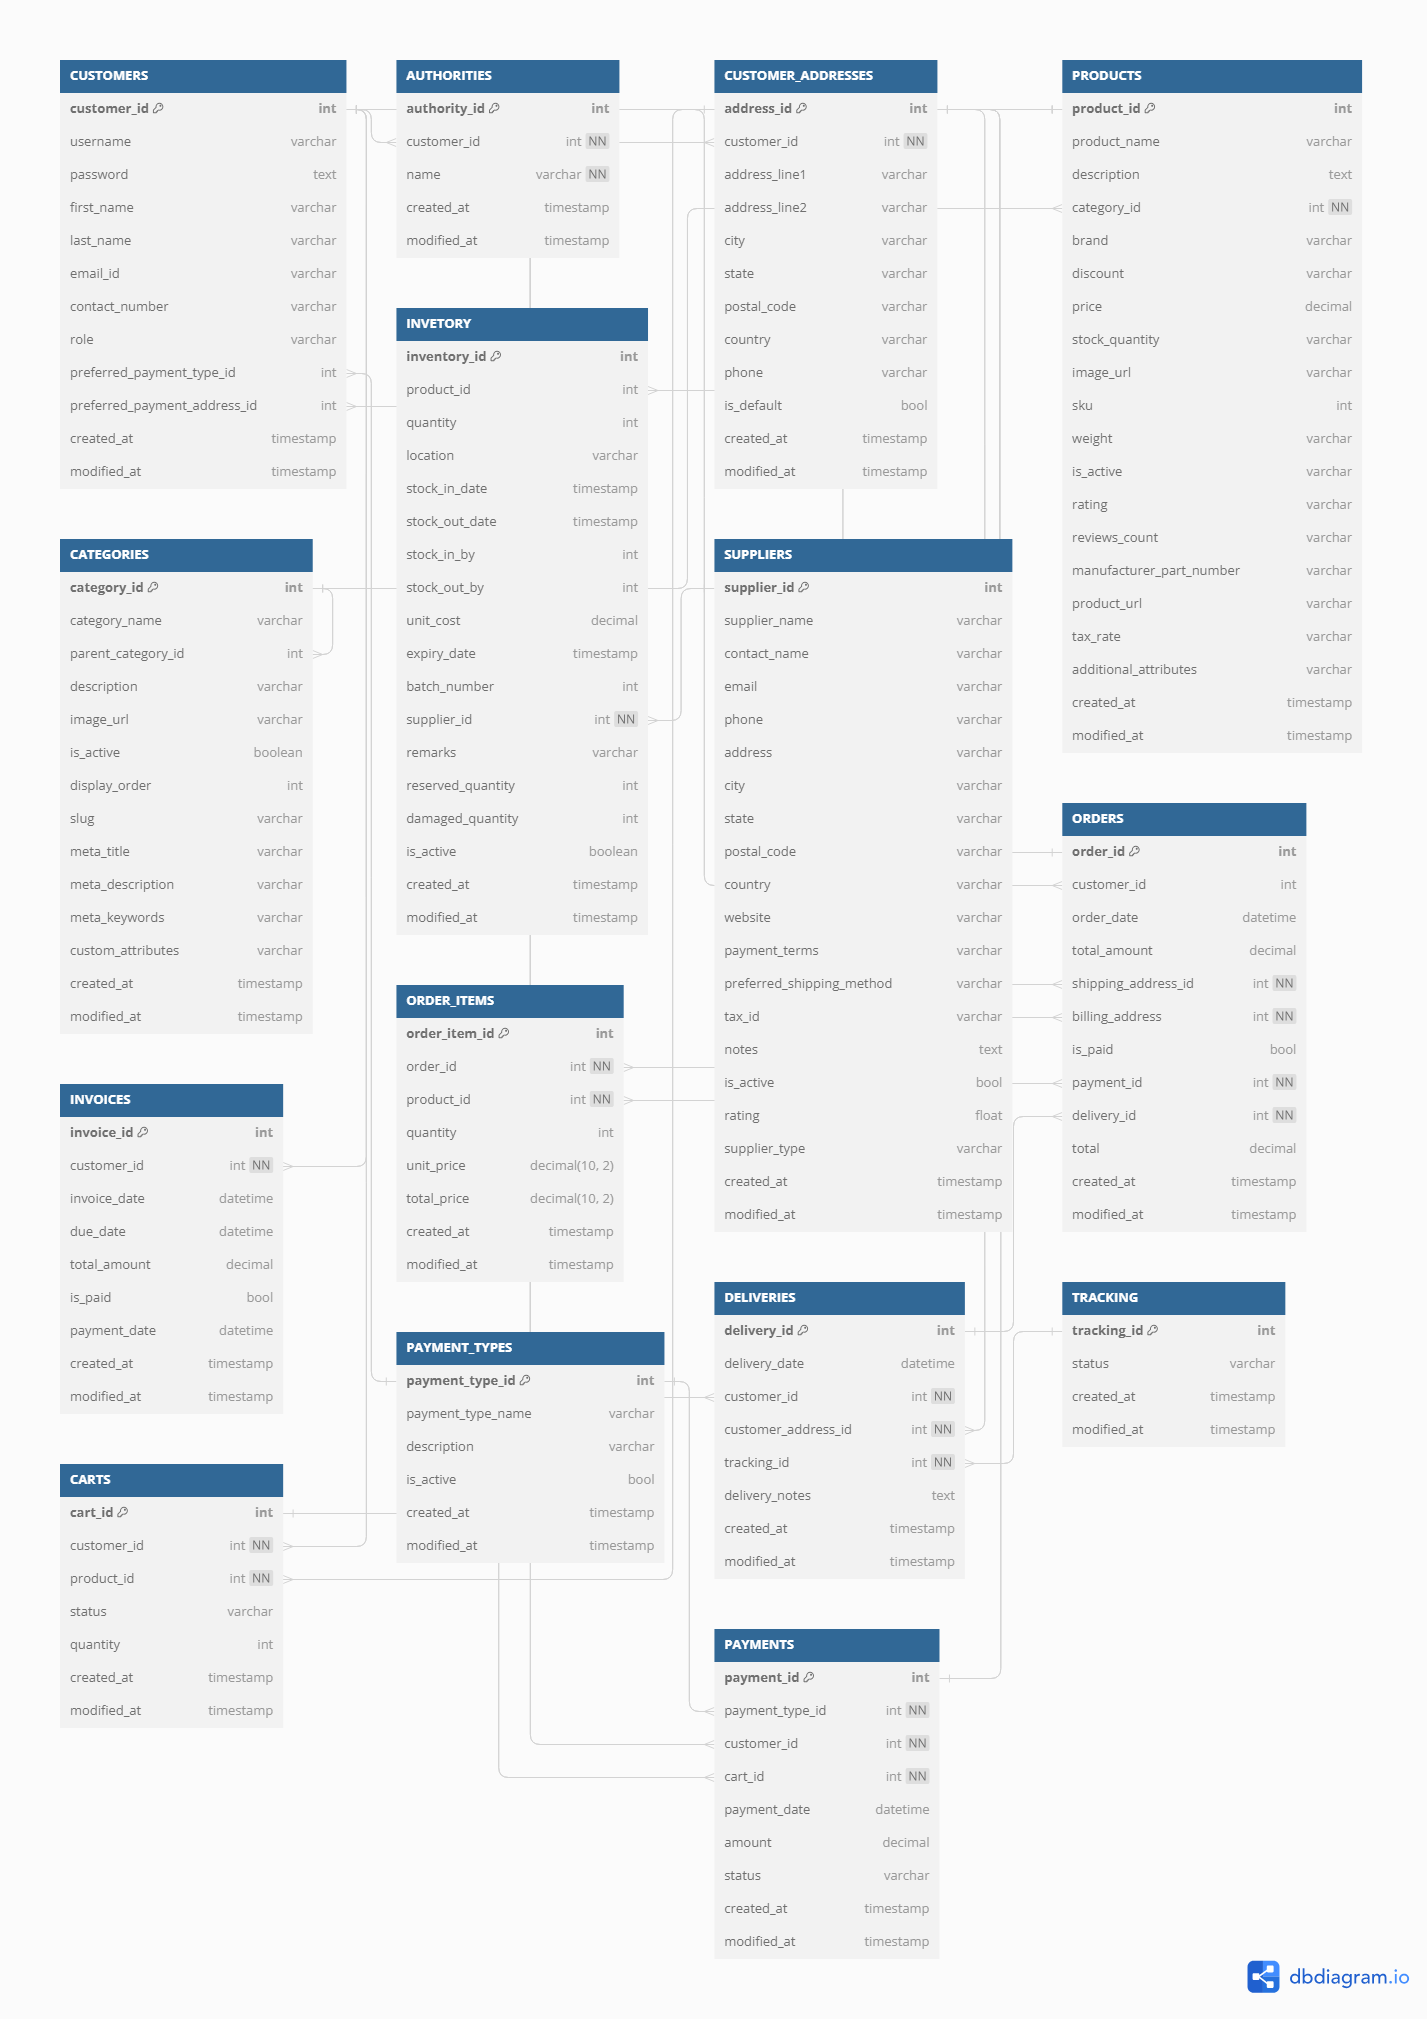
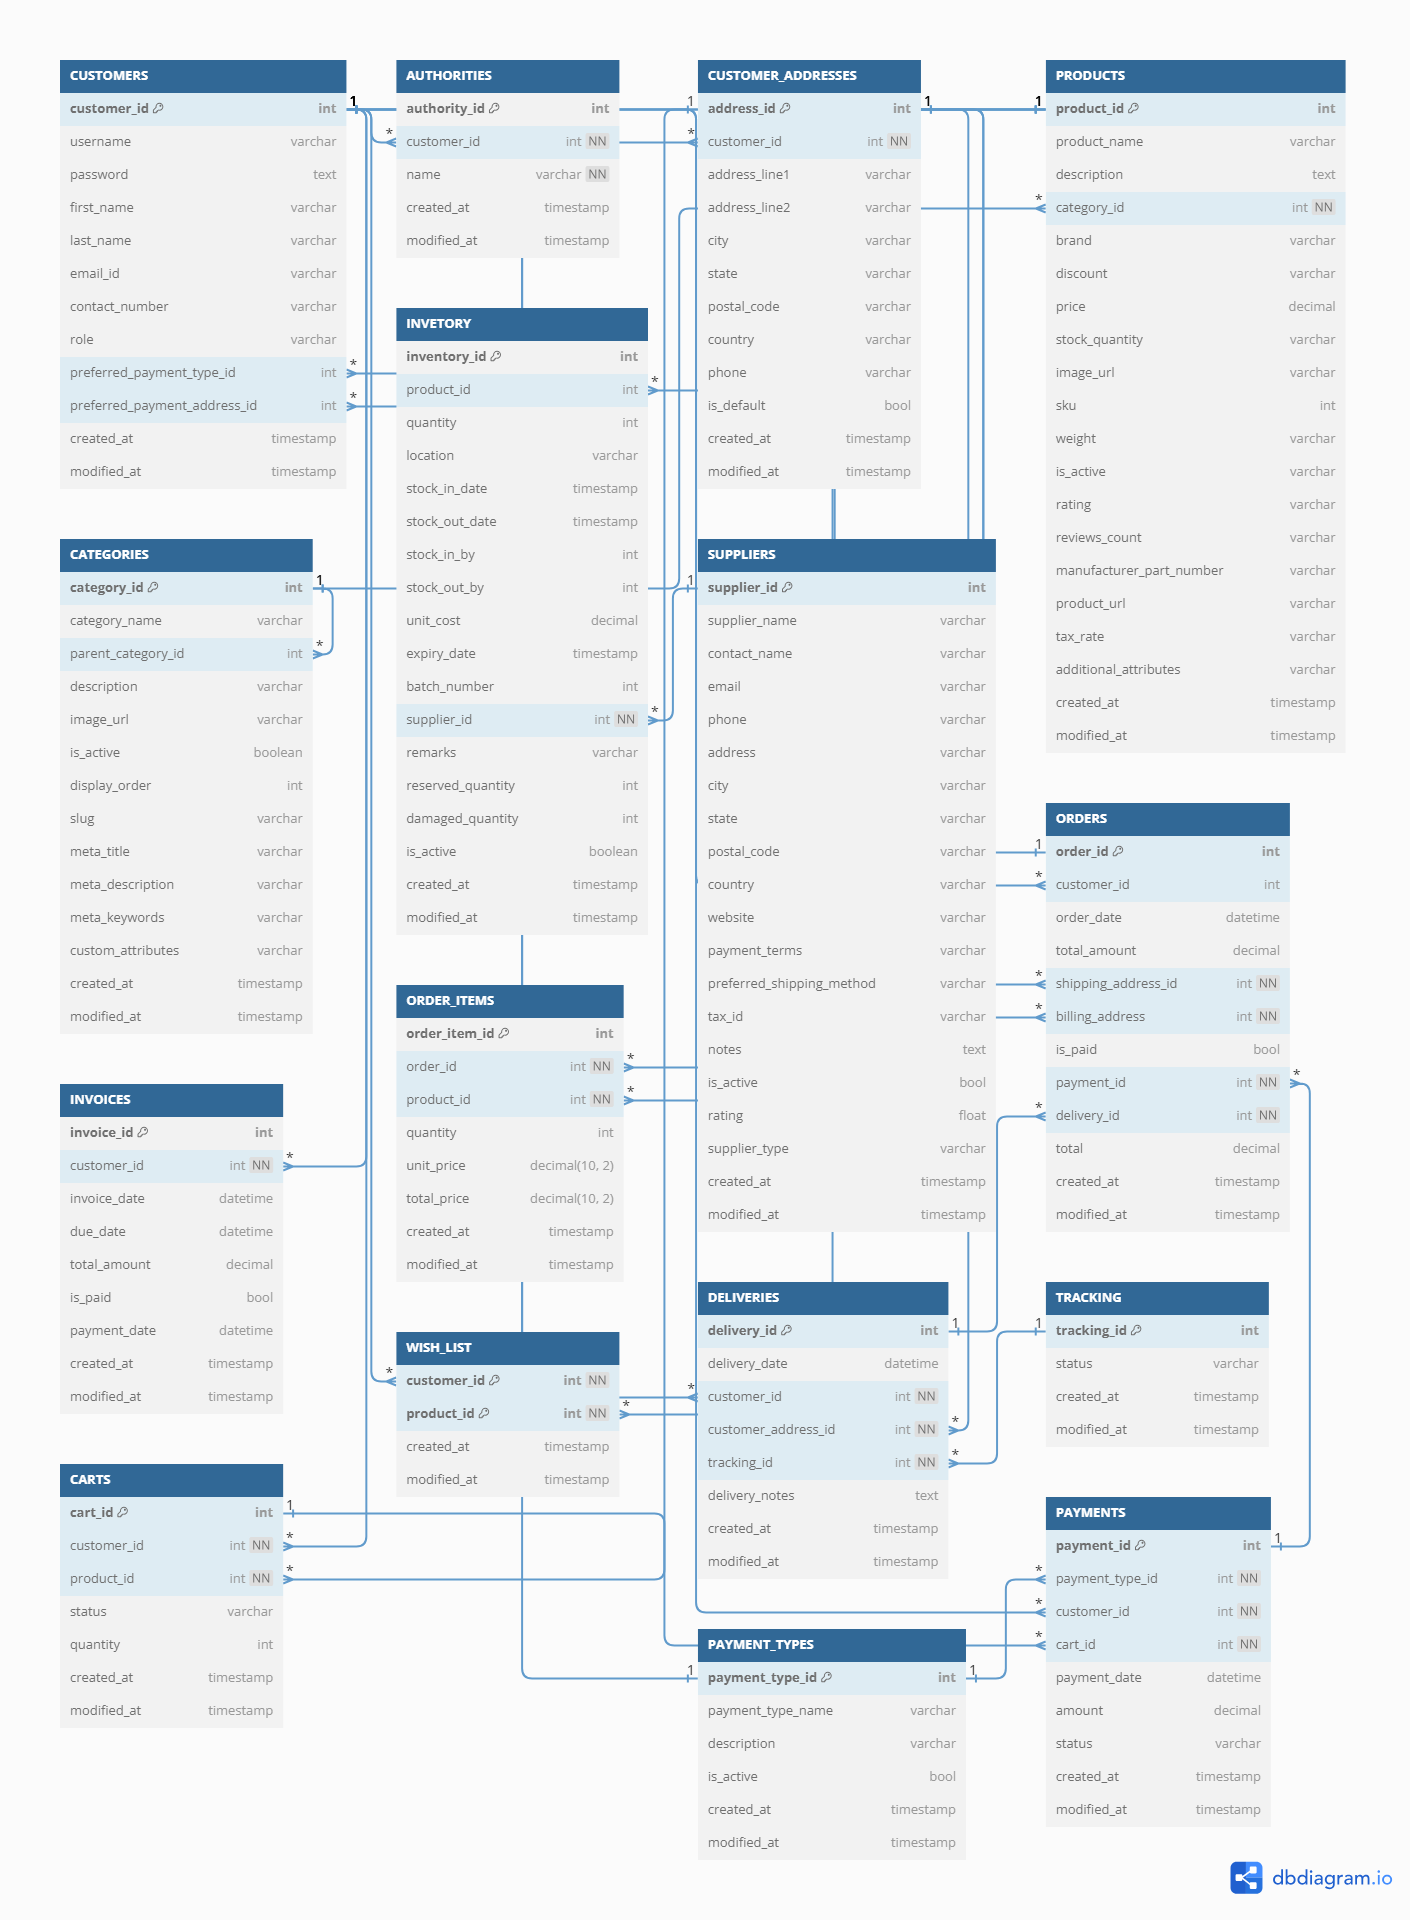
WIP code

diff --git a/Code/ECommerceWeb/src/app/pages/shop/products/products.component.html b/Code/ECommerceWeb/src/app/pages/shop/products/products.component.html
@@ -1,6 +1,6 @@
 <main class="m-4 md:mx-8 md:my-6">
   <ng-container *ngIf="category">
-    <div class="flex items-center text-sm space-x-2 mb-4">
+    <div class="flex mx-2 items-center text-sm space-x-2 mb-4">
       <span routerLink="/home" class="hover:text-yellow-700 cursor-pointer">Shop</span>
       <svg class="w-3 h-3" fill="none" stroke="currentColor" viewBox="0 0 24 24" xmlns="http://www.w3.org/2000/svg">
         <path stroke-linecap="round" stroke-linejoin="round" stroke-width="2" d="M13 5l7 7-7 7M5 5l7 7-7 7"></path>

diff --git a/Code/ECommerceService/ecommerce-backend/src/main/java/com/archneo/ecommerce/service/impl/WishListServiceImpl.java b/Code/ECommerceService/ecommerce-backend/src/main/java/com/archneo/ecommerce/service/impl/WishListServiceImpl.java
@@ -1,0 +1,60 @@
+package com.archneo.ecommerce.service.impl;
+
+import com.archneo.ecommerce.model.WishList;
+import com.archneo.ecommerce.repository.WishListRepository;
+import com.archneo.ecommerce.service.WishListService;
+
+import java.util.ArrayList;
+import java.util.List;
+
+import jakarta.persistence.criteria.Predicate;
+
+import org.springframework.data.domain.Page;
+import org.springframework.data.domain.Pageable;
+import org.springframework.data.jpa.domain.Specification;
+import org.springframework.stereotype.Service;
+import org.springframework.util.MultiValueMap;
+
+@Service
+public class WishListServiceImpl implements WishListService {
+
+	
+    private final WishListRepository wishListRepository;
+
+    public WishListServiceImpl(WishListRepository wishListRepository) {
+        this.wishListRepository = wishListRepository;
+    }
+    
+    @Override
+	public Page<WishList> getAllWishList(MultiValueMap<String, String> params, Pageable pageable) {
+        String customerId = params.getFirst("customerId");
+        
+        Specification<WishList> specification = (root, query, criteriaBuilder) -> {
+            List<Predicate> predicates = new ArrayList<>();
+            
+            if (customerId != null) {
+                predicates.add(criteriaBuilder.equal(root.get("customer").get("customerId"), customerId));
+            }
+            
+            return criteriaBuilder.and(predicates.toArray(new Predicate[0]));
+        };
+        return wishListRepository.findAll(specification, pageable);
+	}
+    
+	@Override
+	public WishList createWishList(WishList wishList) {
+		return wishListRepository.save(wishList);
+	}
+
+	@Override
+	public void deleteWishList(int customerId, int productId) {
+		//wishListRepository.deleteByCustomerId(int customerId, int productId);
+	}
+
+	
+	@Override
+	public void deleteAllWishList(int customerId) {
+		// TODO Auto-generated method stub
+		
+	}
+}

diff --git a/Code/ECommerceService/ecommerce-backend/src/main/java/com/archneo/ecommerce/model/WishList.java b/Code/ECommerceService/ecommerce-backend/src/main/java/com/archneo/ecommerce/model/WishList.java
@@ -1,0 +1,78 @@
+package com.archneo.ecommerce.model;
+
+import jakarta.persistence.*;
+import java.util.Date;
+
+import com.fasterxml.jackson.annotation.JsonIgnore;
+import com.fasterxml.jackson.annotation.JsonInclude;
+
+@Entity
+@Table(name = "wish_list")
+@JsonInclude(JsonInclude.Include.NON_NULL)
+@IdClass(WishListId.class)
+public class WishList {
+	
+	@Id
+    @ManyToOne
+    @JoinColumn(name = "customer_id")
+    private Customer customer;
+
+	@Id
+	@ManyToOne
+    @JoinColumn(name = "product_id")
+    private Product product;
+
+    @Column(name = "created_at")
+    @Temporal(TemporalType.TIMESTAMP)
+    @JsonIgnore
+    private Date createdAt;
+
+    @Column(name = "modified_at")
+    @Temporal(TemporalType.TIMESTAMP)
+    @JsonIgnore
+    private Date modifiedAt;
+
+	public WishList() {
+		super();
+	}
+
+	public WishList(Customer customer, Product product, Date createdAt, Date modifiedAt) {
+		super();
+		this.customer = customer;
+		this.product = product;
+		this.createdAt = createdAt;
+		this.modifiedAt = modifiedAt;
+	}
+
+	public Customer getCustomer() {
+		return customer;
+	}
+
+	public void setCustomer(Customer customer) {
+		this.customer = customer;
+	}
+
+	public Product getProduct() {
+		return product;
+	}
+
+	public void setProduct(Product product) {
+		this.product = product;
+	}
+
+	public Date getCreatedAt() {
+		return createdAt;
+	}
+
+	public void setCreatedAt(Date createdAt) {
+		this.createdAt = createdAt;
+	}
+
+	public Date getModifiedAt() {
+		return modifiedAt;
+	}
+
+	public void setModifiedAt(Date modifiedAt) {
+		this.modifiedAt = modifiedAt;
+	}
+}

diff --git a/Code/ECommerceService/ecommerce-backend/src/main/java/com/archneo/ecommerce/repository/WishListRepository.java b/Code/ECommerceService/ecommerce-backend/src/main/java/com/archneo/ecommerce/repository/WishListRepository.java
@@ -1,0 +1,15 @@
+package com.archneo.ecommerce.repository;
+
+import com.archneo.ecommerce.model.WishList;
+
+import java.util.List;
+
+import org.springframework.data.domain.Page;
+import org.springframework.data.domain.Pageable;
+import org.springframework.data.jpa.domain.Specification;
+import org.springframework.data.jpa.repository.JpaRepository;
+
+public interface WishListRepository extends JpaRepository<WishList, Integer> {
+	Page<WishList> findAll(Specification<WishList> specification, Pageable pageable);
+	WishList findByCustomerIdProductId(int customerId, int productId);
+}

diff --git a/Code/ECommerceService/ecommerce-backend/src/main/java/com/archneo/ecommerce/service/WishListService.java b/Code/ECommerceService/ecommerce-backend/src/main/java/com/archneo/ecommerce/service/WishListService.java
@@ -1,0 +1,14 @@
+package com.archneo.ecommerce.service;
+
+import com.archneo.ecommerce.model.WishList;
+
+import org.springframework.data.domain.Page;
+import org.springframework.data.domain.Pageable;
+import org.springframework.util.MultiValueMap;
+
+public interface WishListService {
+    Page<WishList> getAllWishList(MultiValueMap<String, String> params, Pageable pageable);
+    WishList createWishList(WishList wishList);
+    void deleteWishList(int customerId, int productId);
+    void deleteAllWishList(int customerId);
+}
